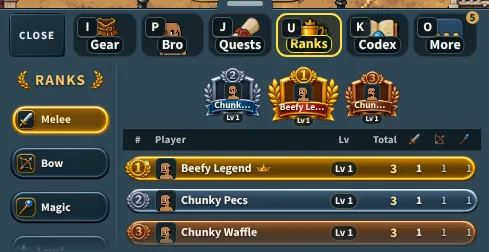
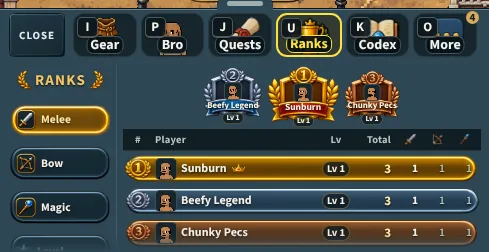
v2.3.5501: the new look's pictures again (whole names upright, 375 px too) and LB's status
Claude-Session: https://claude.ai/code/session_01LccHan9kjiX3HYSSDeBrYx

diff --git a/docs/plan/status/LB.md b/docs/plan/status/LB.md
@@ -1,7 +1,7 @@
 card: LB
 branch: claude/plan-lb-2-window (PR 2, begun from claude/plan-lb-1-pieces)
-prs: #1771 (5500, merged); #1783 (5501, held: mending sitting 10's list)
-state: working
+prs: #1771 (5500, merged); #1783 (5501, ready again: sitting 10's list mended)
+state: ready
 
 ## Done
 
@@ -35,5 +35,6 @@ state: working
   second mockup's; PW's fields (`powerIndex {power, melee, bow, magic, v}`,
   `caps.power` the version); the stat boards held, none built.
 - #1783 held at the gatekeeper's sitting 10 (whole names at 375 px, the
-  podium's value, two "Lv"; lows): mended in the next push. `CAP_GATES`'
+  podium's value, two "Lv"; lows): mended (mp-boardslook 18/18, mp-boards
+  37/37, the 375 px picture in the PR). `CAP_GATES`'
   `power` row is PR 3's (#1783 reads no cap).
